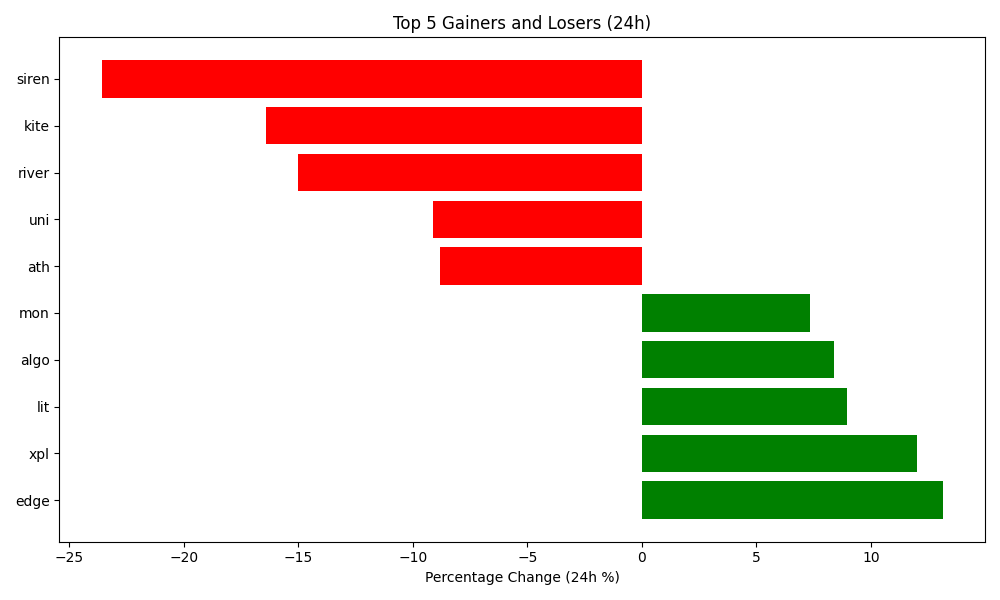
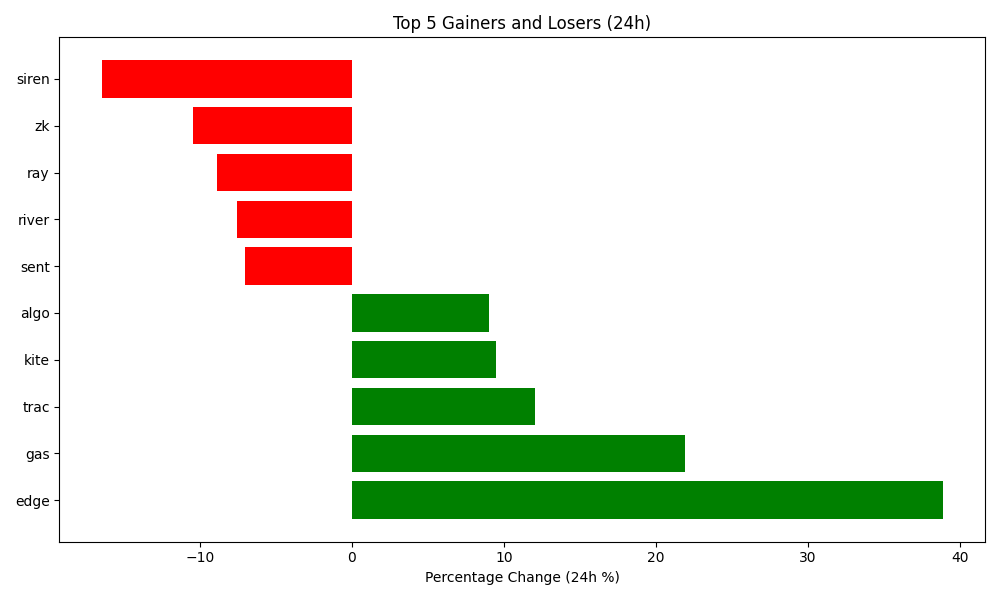
Auto-update crypto data and plot

diff --git a/README.md b/README.md
@@ -4,7 +4,7 @@ Author: Hitesh Agrawal
 This repository automatically tracks the top 5 gaining, top 5 losing, and top 5 highest volume cryptocurrencies in the last 24 hours using the CoinGecko API, Python, Matplotlib, and GitHub Actions updates the below content everyday at midnight.
 
 <!-- START_DYNAMIC_CONTENT -->
-Last updated: 2026-04-03 01:46 UTC
+Last updated: 2026-04-04 01:28 UTC
 
 ![Crypto Movers Plot](crypto_movers_plot.png)
 
@@ -12,33 +12,33 @@ Last updated: 2026-04-03 01:46 UTC
 
 | Rank | Coin | Price Change (24h %) | Volume (USD) | Current Price (USD) |
 | :--: | :--: | :------------------: | :----------: | :-----------------: |
-| 1 | edge | 13.15% | $57,211,773 | $0.7633 |
-| 2 | xpl | 12.00% | $387,725,780 | $0.1172 |
-| 3 | lit | 8.95% | $39,235,652 | $0.9424 |
-| 4 | algo | 8.41% | $131,927,511 | $0.1094 |
-| 5 | mon | 7.32% | $496,934,956 | $0.0251 |
+| 1 | edge | 38.88% | $282,575,617 | $1.0640 |
+| 2 | gas | 21.92% | $96,308,764 | $1.9200 |
+| 3 | trac | 12.07% | $14,445,479 | $0.3038 |
+| 4 | kite | 9.49% | $113,705,494 | $0.1372 |
+| 5 | algo | 9.03% | $202,573,798 | $0.1216 |
 
 
 **👇 Top 5 Losers (24h)**
 
 | Rank | Coin | Price Change (24h %) | Volume (USD) | Current Price (USD) |
 | :--: | :--: | :------------------: | :----------: | :-----------------: |
-| 1 | siren | -23.59% | $30,445,270 | $0.1833 |
-| 2 | kite | -16.40% | $53,709,712 | $0.1252 |
-| 3 | river | -15.03% | $28,057,721 | $12.8500 |
-| 4 | uni | -9.12% | $474,568,288 | $3.1700 |
-| 5 | ath | -8.81% | $16,697,737 | $0.0063 |
+| 1 | siren | -16.45% | $17,725,239 | $0.1546 |
+| 2 | zk | -10.47% | $21,738,624 | $0.0151 |
+| 3 | ray | -8.89% | $36,823,714 | $0.6230 |
+| 4 | river | -7.52% | $33,263,374 | $11.7200 |
+| 5 | sent | -7.02% | $17,126,236 | $0.0161 |
 
 
 **💎 Top 5 by Trade Volume (24h)**
 
 | Rank | Coin | Price Change (24h %) | Volume (USD) | Current Price (USD) |
 | :--: | :--: | :------------------: | :----------: | :-----------------: |
-| 1 | usdt | 0.00% | $70,601,964,980 | $0.9999 |
-| 2 | btc | -0.87% | $45,448,592,060 | $66,563.0000 |
-| 3 | eth | -2.26% | $16,448,121,041 | $2,047.8400 |
-| 4 | usdc | 0.02% | $10,847,532,237 | $1.0000 |
-| 5 | sol | -0.08% | $3,337,855,334 | $79.1700 |
+| 1 | usdt | -0.00% | $39,109,173,356 | $0.9999 |
+| 2 | btc | -0.01% | $24,468,437,378 | $66,850.0000 |
+| 3 | eth | -0.41% | $10,097,400,312 | $2,050.2100 |
+| 4 | usdc | 0.00% | $6,213,663,686 | $1.0000 |
+| 5 | sol | 0.89% | $2,319,078,214 | $80.0900 |
 
 
 <!-- END_DYNAMIC_CONTENT -->
